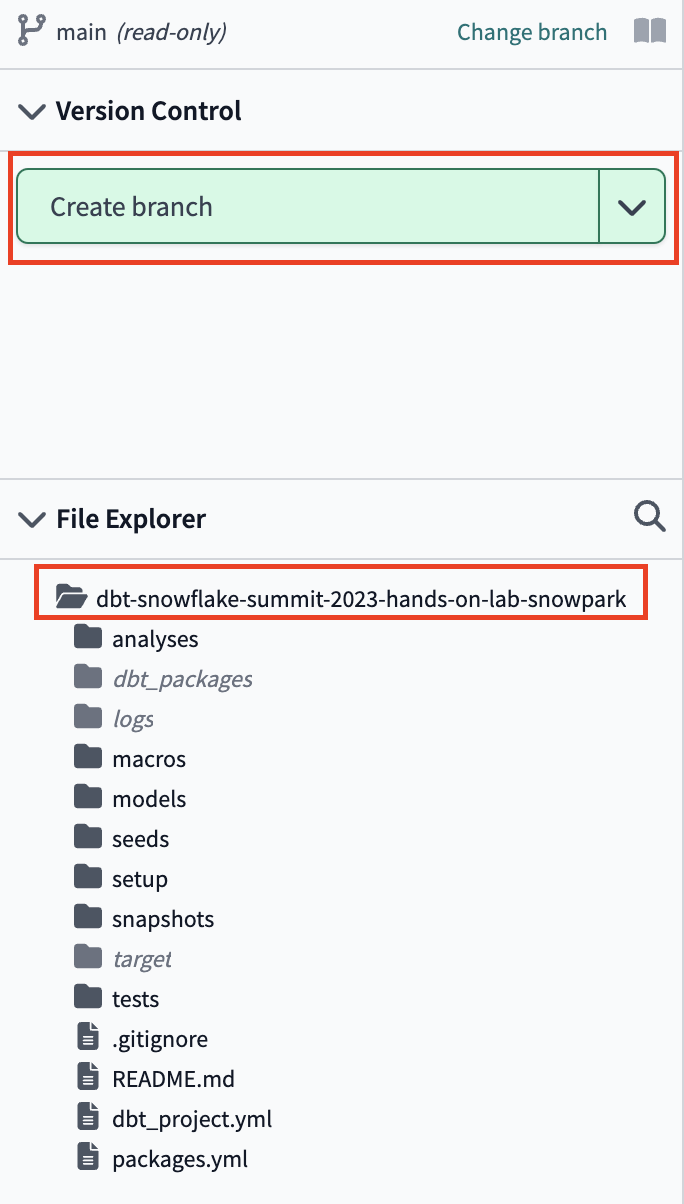
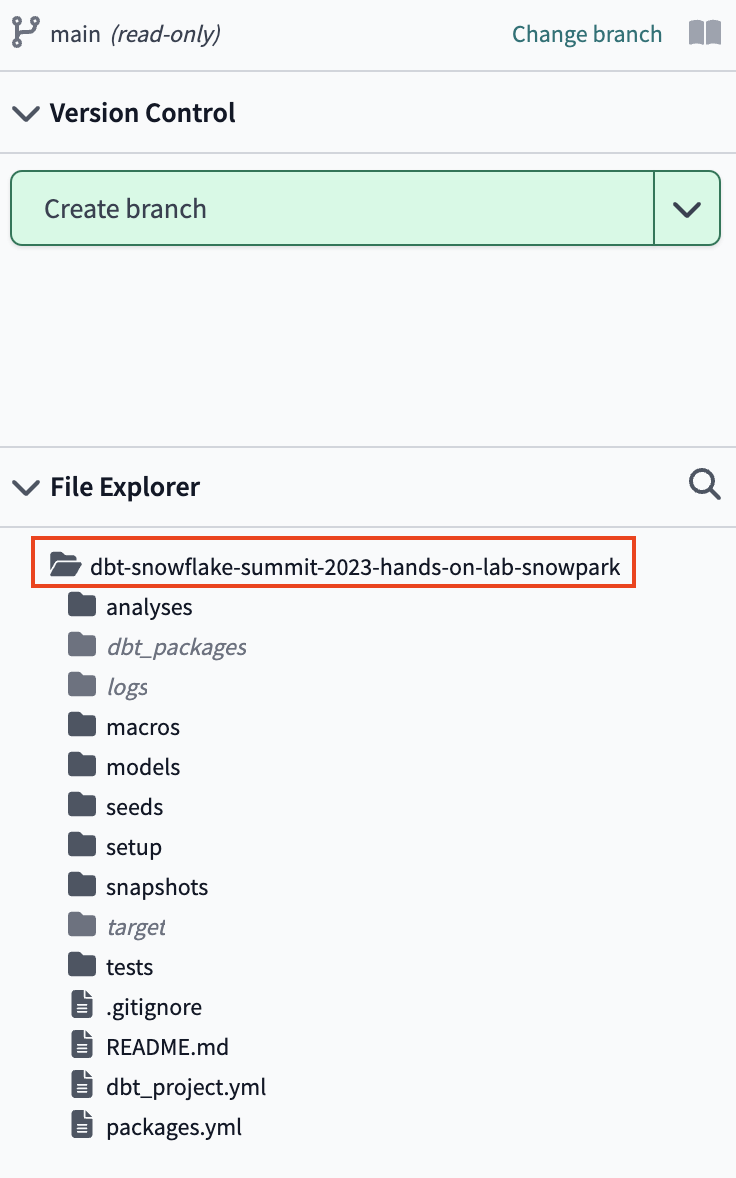
complete deploy key section

Changed region(s): [[0.0, 0.0, 1.0, 1.0]]

diff --git a/site/sfguides/src/leverage_dbt_cloud_to_generate_ml_ready_pipelines_using_snowpark_python/leverage_dbt_cloud_to_generate_ml_ready_pipelines_using_snowpark_python.md b/site/sfguides/src/leverage_dbt_cloud_to_generate_ml_ready_pipelines_using_snowpark_python/leverage_dbt_cloud_to_generate_ml_ready_pipelines_using_snowpark_python.md
@@ -448,28 +448,31 @@ To keep the focus on dbt python and deployment today, we only want to build a su
 If you tried to start developing onto of this repo right now, we'd get permissions errors. So we need to give dbt Cloud write acess. 
 
 ### Giving dbt cloud repo write access using github deploy keys
-1. dbt Cloud will generate a deploy key to link the development we do in dbt cloud back to our github repo. **Copy** the deploy key starting with **ssh-rsa** followed by a long hash key (full key hidden for privacy).
-<!-- <img src="assets/development-schema-and-forking-repo/github-deploy-keys/copy_deploy_key_from_dbt_cloud.png" alt="copy_deploy_key_from_dbt_cloud"> -->
+1. Click on your git cloned repository link. dbt Cloud generated a deploy key to link the development we do in dbt cloud back to our GitHub repo. **Copy** the deploy key starting with **ssh-rsa** followed by a long hash key (full key hidden for privacy).
+<img src="assets/development-schema-and-forking-repo/github-deploy-keys/copy_deploy_key_from_dbt_cloud.png" alt="copy_deploy_key_from_dbt_cloud">
 
 2. Phew almost there! Navigate **back to GitHub** again. 
 3. Ensure you're in your forked repo. Navigate to your repo **Settings**
-<!-- <img src="assets/development-schema-and-forking-repo/github-deploy-keys/git_repo_settings.png" alt="git_repo_settings"> -->
+<img src="assets/development-schema-and-forking-repo/github-deploy-keys/git_repo_settings.png" alt="git_repo_settings">
 
-4. Go to **Deploy keys** and select **Add deploy key**.
-<!-- <img src="assets/development-schema-and-forking-repo/github-deploy-keys/deploy_keys_github.png" alt="deploy_keys_github"> -->
+4. Go to **Deploy keys**. 
+<img src="assets/development-schema-and-forking-repo/github-deploy-keys/deploy_keys_github.png" alt="deploy_keys_github">
 
-5. Give your deploy key a title such as `dbt Cloud Snowflake Summit`. Paste the key we ssh-rsa deploy key we copied from dbt Cloud into the **Key** box. Be sure to enable **Allow write access**. Finally, **Add key**. Your deploy key has been created. We won't have to come back to again GitHub until the end of our workshop.
-<!-- <img src="assets/development-schema-and-forking-repo/github-deploy-keys/add_new_deploy_key.png" alt="add_new_deploy_key">
-<img src="assets/development-schema-and-forking-repo/github-deploy-keys/deploy_key_created.png" alt="deploy_key_created"> -->
+5. Select **Add deploy key**. <img src="assets/development-schema-and-forking-repo/github-deploy-keys/new_deploy_key_button.png" alt="new_deploy_key_button">
 
-6. Head back over to dbt cloud. Navigate to **Develop**.
+6. Give your deploy key a title such as `dbt Cloud Snowflake Summit`. Paste the key we ssh-rsa deploy key we copied from dbt Cloud into the **Key** box. Be sure to enable **Allow write access**. Finally, **Add key**. Your deploy key has been created. We won't have to come back to again GitHub until the end of our workshop.
+<img src="assets/development-schema-and-forking-repo/github-deploy-keys/add_new_deploy_key.png" alt="add_new_deploy_key">
+<img src="assets/development-schema-and-forking-repo/github-deploy-keys/deploy_key_created.png" alt="deploy_key_created">
 
-7. **Run "dbt deps"**
-<!-- <img src="assets/development-schema-and-forking-repo/github-deploy-keys/run_dep_deps_after_importing_forked_repo.png" alt="run_dep_deps_after_importing_forked_repo"> -->
+7. Head back over to dbt cloud. Navigate to **Develop**.
+<img src="assets/development-schema-and-forking-repo/github-deploy-keys/develop_panel_dbt_cloud.png" alt="develop_panel_dbt_cloud">
+
+8. **Run "dbt deps"**
+<img src="assets/development-schema-and-forking-repo/github-deploy-keys/run_dep_deps_after_importing_forked_repo.png" alt="run_dep_deps_after_importing_forked_repo">
 
 <!-- possible TODO: might need to update this to not yet create new branch -->
-8. Since we're brining in an existing project your root folder should now say `dbt-snowflake-summit-hands-on-lab-snowpark`
-<!-- <img src="assets/development-schema-and-forking-repo/github-deploy-keys/file_tree_of_forked_repo.png" alt="file_tree_of_forked_repo"> -->
+9. Since we're brining in an existing project your root folder should now say `dbt-snowflake-summit-hands-on-lab-snowpark`
+<img src="assets/development-schema-and-forking-repo/github-deploy-keys/file_tree_of_forked_repo.png" alt="file_tree_of_forked_repo">
 
 Alas, now that our setup work is complete, time get a look at our data pipeline! 
 
